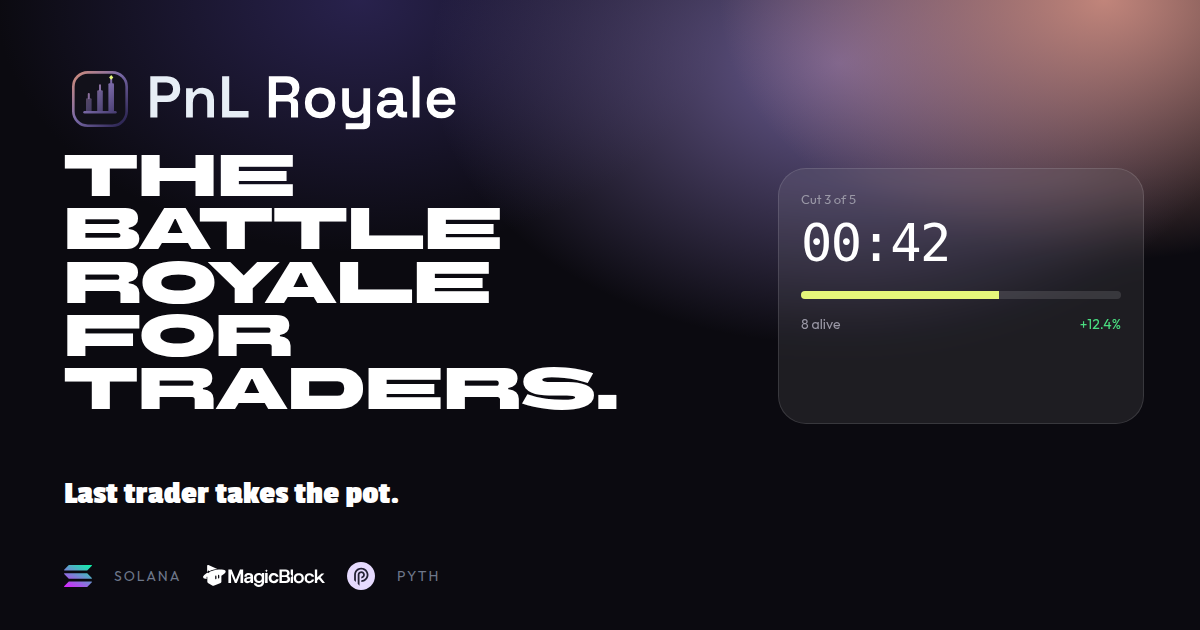
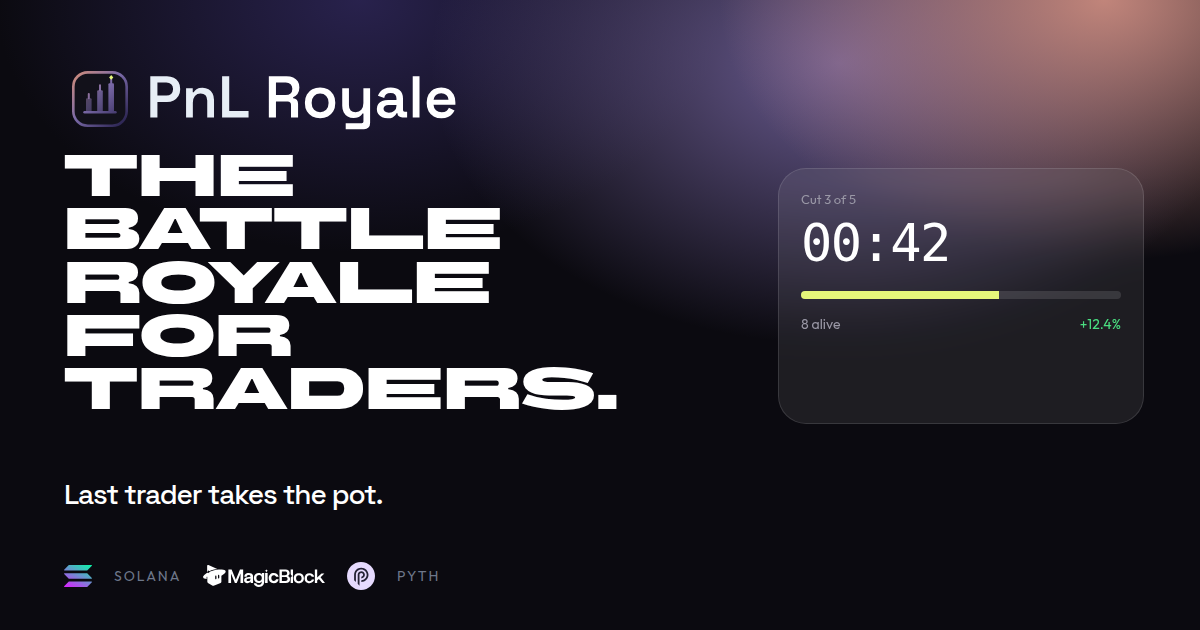
Use Space Grotesk for subheads and keep Bartle on titles.
Passion One is gone. Supporting lines, empty states, and card titles use Space Grotesk at weight 500, the mesh design's heading face. Section titles stay in BBH Bartle, and the partner strip is smaller.

Changed region(s): [[0.0308, 0.754, 0.3392, 0.8143]]

diff --git a/app/src/app/page.tsx b/app/src/app/page.tsx
@@ -34,7 +34,7 @@ export default function Lobby() {
             The battle royale
             <span className="mt-2 block">for traders.</span>
           </h1>
-          <p className="subhead mt-4 text-[28px] text-white sm:text-[34px]">Last trader takes the pot.</p>
+          <p className="subhead mt-4 text-2xl text-white sm:text-[28px]">Last trader takes the pot.</p>
           <div className="mt-8 flex flex-wrap gap-3">
             {publicKey ? (
               <a href="#rooms">
@@ -79,20 +79,20 @@ function SectionHead({ title, sub }: { title: string; sub: string }) {
   return (
     <div>
       <h2 className="display text-4xl text-white sm:text-5xl">{title}</h2>
-      <p className="subhead mt-3 text-[26px] text-white sm:text-[30px]">{sub}</p>
+      <p className="subhead mt-3 text-xl text-white sm:text-2xl">{sub}</p>
     </div>
   );
 }
 
 function PartnerBand() {
   return (
-    <section className="rounded-[22px] border border-border bg-surface px-5 py-6 sm:px-8">
-      <div className="flex flex-col gap-6 lg:flex-row lg:items-center lg:justify-between">
+    <section className="rounded-[20px] border border-border bg-surface px-4 py-3 sm:px-5">
+      <div className="flex flex-col gap-3 sm:flex-row sm:items-center sm:justify-between">
         <div>
-          <h2 className="display text-3xl text-white">Built with</h2>
-          <p className="subhead mt-2 text-[22px] text-white">Solana, MagicBlock, Pyth.</p>
+          <h2 className="subhead text-base text-white">Built with</h2>
+          <p className="subhead text-sm text-white/80">Solana, MagicBlock, Pyth.</p>
         </div>
-        <PartnerLockup />
+        <PartnerLockup compact />
       </div>
       <div className="mt-5 flex flex-wrap items-center gap-4 border-t border-border pt-4">
         <span className="text-xs text-faint">Wallets</span>
@@ -116,7 +116,7 @@ function MarketStrip() {
       <div className="mb-3 flex items-end justify-between gap-3">
         <div>
           <h2 className="display text-3xl text-white">Markets</h2>
-          <p className="subhead mt-2 text-[22px] text-white">Pick up to three.</p>
+          <p className="subhead mt-2 text-xl text-white">Pick up to three.</p>
         </div>
       </div>
       <div className="grid grid-cols-2 gap-2 sm:grid-cols-4 lg:grid-cols-8">
@@ -193,7 +193,7 @@ function RoomsTable() {
           <span className="glass grid h-12 w-12 place-items-center rounded-full text-white">
             <Trophy size={20} strokeWidth={1.6} />
           </span>
-          <div className="display text-3xl text-white">
+          <div className="subhead text-2xl text-white">
             {tab === "open" ? "The floor is clear" : tab === "live" ? "No live round" : "No results yet"}
           </div>
           <p className="subhead text-xl text-white">{tab === "open" ? "Create one." : "Check back."}</p>
@@ -417,11 +417,11 @@ function StormShowcase() {
     <section className="mesh overflow-hidden rounded-[28px] border border-white/10">
       <div className="px-5 py-8 sm:px-8">
         <h2 className="display text-4xl text-white sm:text-5xl">Storms</h2>
-        <p className="subhead mt-3 text-[26px] text-white">Rules change each minute.</p>
+        <p className="subhead mt-3 text-xl text-white sm:text-2xl">Rules change each minute.</p>
         <div className="mt-6 grid gap-3 sm:grid-cols-2 lg:grid-cols-4">
           {storms.map(([k, line]) => (
             <div key={k} className="glass rounded-[22px] p-4">
-              <div className="subhead text-[26px] leading-none text-white">{STORM_COPY[k].title}</div>
+              <div className="subhead text-xl text-white">{STORM_COPY[k].title}</div>
               <p className="mt-2 text-sm text-white/80">{line}</p>
             </div>
           ))}
@@ -441,7 +441,7 @@ function PayoutBand() {
     <section className="grid gap-4 lg:grid-cols-2">
       <div className="mesh rounded-[28px] border border-white/10 p-6 sm:p-8">
         <h2 className="display text-4xl text-white">The pot</h2>
-        <p className="subhead mt-3 text-[26px] text-white">Top three split it.</p>
+        <p className="subhead mt-3 text-xl text-white sm:text-2xl">Top three split it.</p>
         <div className="mt-6 space-y-3">
           {rows.map(([place, pct, w]) => (
             <div key={place} className="flex items-center gap-3 text-sm">
@@ -456,7 +456,7 @@ function PayoutBand() {
       </div>
       <div className="rounded-[22px] border border-border bg-surface p-6 sm:p-8">
         <h2 className="display text-4xl text-white">Rating</h2>
-        <p className="subhead mt-3 text-[26px] text-white">Elo after every round.</p>
+        <p className="subhead mt-3 text-xl text-white sm:text-2xl">Elo after every round.</p>
         <Link href="/profile" className="mt-6 inline-flex">
           <Button variant="secondary">
             View your rating <ArrowRight size={15} />

diff --git a/app/src/app/layout.tsx b/app/src/app/layout.tsx
@@ -1,6 +1,6 @@
 import type { Metadata, Viewport } from "next";
 import localFont from "next/font/local";
-import { JetBrains_Mono, Outfit, Passion_One } from "next/font/google";
+import { JetBrains_Mono, Outfit, Space_Grotesk } from "next/font/google";
 import "./globals.css";
 import { Providers } from "./providers";
 import { Header } from "@/components/Header";
@@ -9,7 +9,7 @@ import { Footer } from "@/components/Footer";
 const outfit = Outfit({ subsets: ["latin"], variable: "--font-outfit" });
 // BBH Bartle is on Google Fonts but not in this Next.js release's font catalog yet.
 const bartle = localFont({ src: "../fonts/BBHBartle.ttf", variable: "--font-display-face", weight: "400", display: "swap" });
-const passion = Passion_One({ subsets: ["latin"], weight: "700", variable: "--font-subhead" });
+const grotesk = Space_Grotesk({ subsets: ["latin"], variable: "--font-subhead" });
 const jetbrains = JetBrains_Mono({ subsets: ["latin"], variable: "--font-jetbrains" });
 
 const description =
@@ -44,7 +44,7 @@ export const viewport: Viewport = { themeColor: "#07080c", width: "device-width"
 
 export default function RootLayout({ children }: { children: React.ReactNode }) {
   return (
-    <html lang="en" className={`${outfit.variable} ${bartle.variable} ${passion.variable} ${jetbrains.variable}`}>
+    <html lang="en" className={`${outfit.variable} ${bartle.variable} ${grotesk.variable} ${jetbrains.variable}`}>
       <body className="font-sans">
         <Providers>
           <Header />

diff --git a/app/src/components/brand.tsx b/app/src/components/brand.tsx
@@ -34,7 +34,7 @@ export function Logo({ compact = false }: { compact?: boolean }) {
     <span className="flex items-center gap-2.5">
       <LogoMark size={compact ? 26 : 30} />
       <span className="leading-none">
-        <span className="display block text-[17px] text-fg">
+        <span className="subhead block text-[17px] text-fg">
           PnL Royale
         </span>
       </span>
@@ -106,13 +106,13 @@ const PARTNERS = [
   { name: "Pyth", src: "/brand/pyth.svg", href: "https://www.pyth.network" },
 ];
 
-export function PartnerLockup({ className }: { className?: string }) {
+export function PartnerLockup({ className, compact = false }: { className?: string; compact?: boolean }) {
   return (
-    <div className={cx("flex flex-wrap items-center gap-x-8 gap-y-4", className)}>
+    <div className={cx("flex flex-wrap items-center", compact ? "gap-x-4 gap-y-2" : "gap-x-8 gap-y-4", className)}>
       {PARTNERS.map((p) => (
         <a key={p.name} href={p.href} target="_blank" rel="noreferrer" className="opacity-80 transition-opacity hover:opacity-100" title={p.name}>
           {/* eslint-disable-next-line @next/next/no-img-element */}
-          <img src={p.src} alt={p.name} className={p.wide ? "h-6 w-auto" : "h-7 w-7 rounded-full"} />
+          <img src={p.src} alt={p.name} className={p.wide ? (compact ? "h-4 w-auto" : "h-6 w-auto") : compact ? "h-5 w-5 rounded-full" : "h-7 w-7 rounded-full"} />
         </a>
       ))}
     </div>

diff --git a/app/src/components/ui.tsx b/app/src/components/ui.tsx
@@ -78,7 +78,7 @@ export function Card({
     <section className={cx("rounded-[var(--radius-card)] border border-border bg-surface/95 shadow-[0_1px_0_rgba(255,255,255,0.03)_inset]", className)}>
       {(title || action) && (
         <header className="flex items-center justify-between gap-3 border-b border-border px-4 py-3">
-          <h2 className="text-[13px] font-medium text-muted">{title}</h2>
+          <h2 className="subhead text-[13px] text-muted">{title}</h2>
           {action}
         </header>
       )}
@@ -161,8 +161,8 @@ export function Empty({
       ) : (
         icon && <div className="glass mb-4 grid h-12 w-12 place-items-center rounded-full text-white">{icon}</div>
       )}
-      <div className="display text-2xl text-fg">{title}</div>
-      {body && <p className="subhead mt-3 text-2xl text-white">{body}</p>}
+      <div className="subhead text-2xl text-white">{title}</div>
+      {body && <p className="subhead mt-2 text-base text-white/80">{body}</p>}
       {action && <div className="mt-5">{action}</div>}
     </div>
   );

diff --git a/app/src/app/globals.css b/app/src/app/globals.css
@@ -81,10 +81,10 @@ body {
 
 .subhead {
   font-family: var(--font-sub);
-  font-weight: 700;
-  letter-spacing: 0;
+  font-weight: 500;
+  letter-spacing: -0.04em;
   text-transform: none;
-  line-height: 1.05;
+  line-height: 1.15;
 }
 
 .balance {
@@ -96,11 +96,11 @@ body {
 
 .kicker {
   font-family: var(--font-sub);
-  font-size: 1.15rem;
-  font-weight: 700;
-  letter-spacing: 0;
+  font-size: 13px;
+  font-weight: 500;
+  letter-spacing: -0.02em;
   text-transform: none;
-  color: #fff;
+  color: var(--color-muted);
 }
 
 /* Wallet adapter, restyled to the floor */

diff --git a/app/src/components/Footer.tsx b/app/src/components/Footer.tsx
@@ -9,7 +9,7 @@ export function Footer() {
         <div>
           <div className="flex items-center gap-2.5">
             <LogoMark size={26} />
-            <span className="display text-lg">
+            <span className="subhead text-lg">
               PnL Royale
             </span>
           </div>
